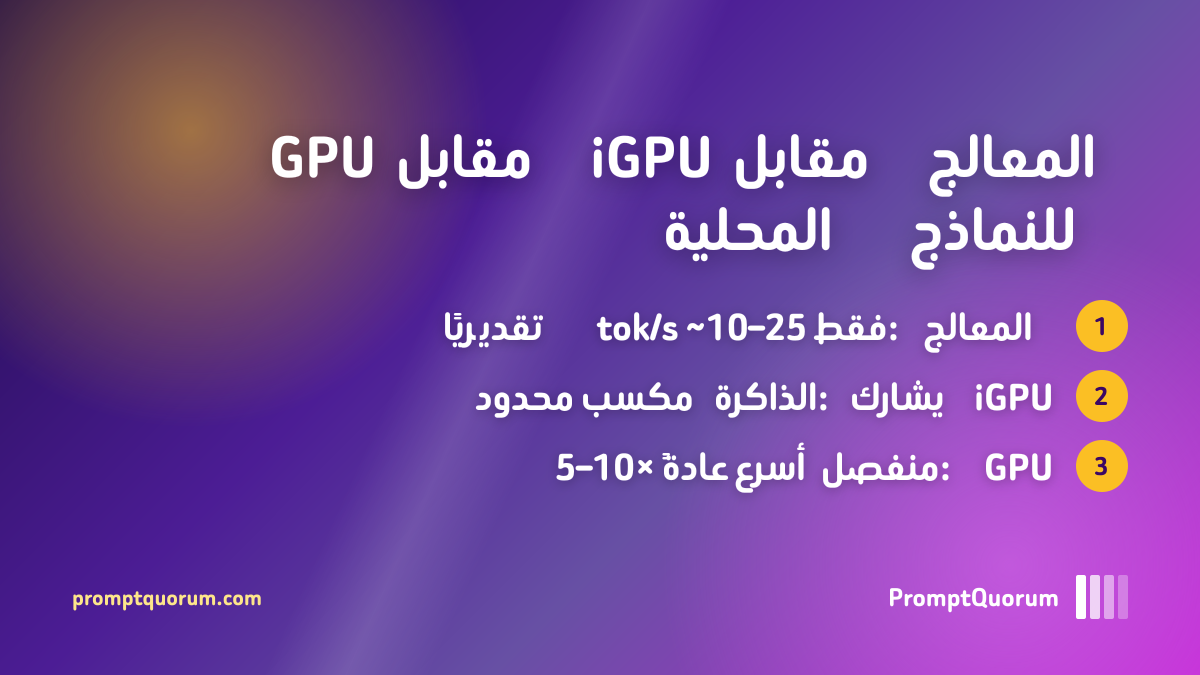
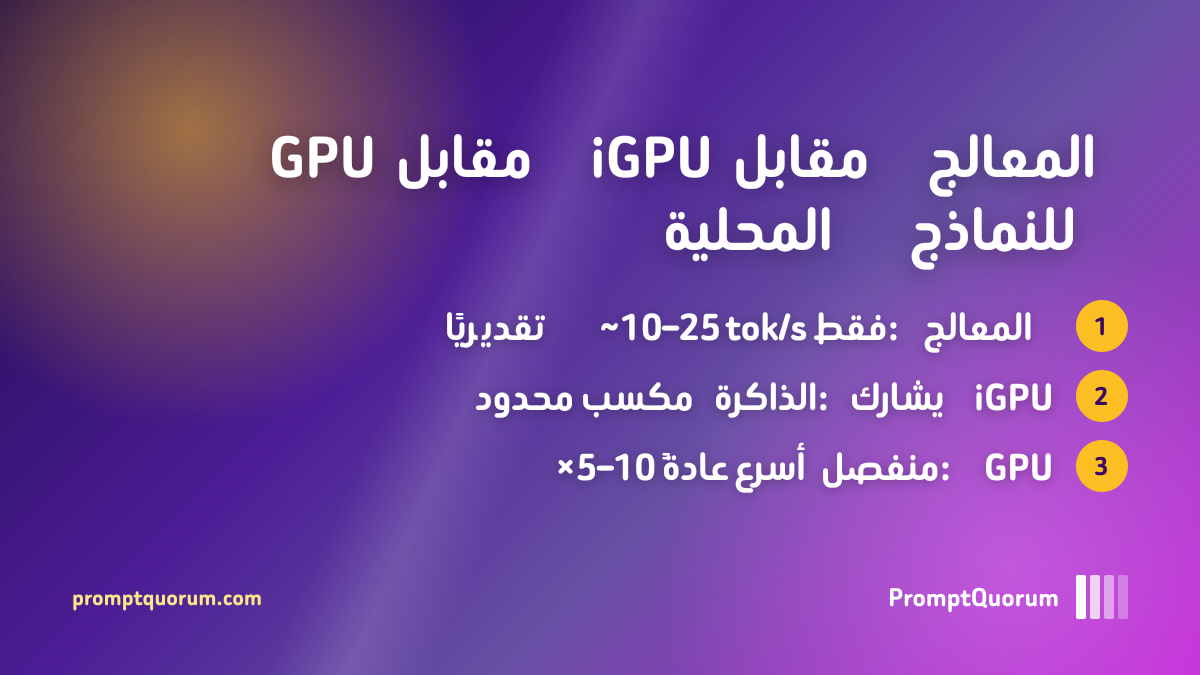
fix: keep Latin/number runs intact in Arabic hero posters

Changed region(s): [[0.4933, 0.4667, 0.6783, 0.5289], [0.4625, 0.6533, 0.555, 0.7156], [0.37, 0.4667, 0.4625, 0.5289]]

diff --git a/src/app/api/hero-image/route.tsx b/src/app/api/hero-image/route.tsx
@@ -1,6 +1,7 @@
 import { ImageResponse } from 'next/og'
 import fs from 'fs'
 import path from 'path'
+import { splitBidiRuns } from '@/lib/hero/bidi-runs'
 
 export const runtime = 'nodejs'
 
@@ -78,6 +79,14 @@ function LogoMark({ color, barWidth = 10, barHeight = 44 }: { color: string; bar
   )
 }
 
+// RTL text: one flex item per Arabic word, one intact LTR item per Latin/number
+// run (see src/lib/hero/bidi-runs.ts). The parent is a row-reverse flex.
+function renderRtlRuns(text: string) {
+  return splitBidiRuns(text).map((r, i) => (
+    <div key={i} style={{ display: 'flex', direction: r.dir, whiteSpace: 'nowrap' }}>{r.text}</div>
+  ))
+}
+
 // Internal content-tooling route: renders Discover-compliant (1200x675 raster,
 // 16:9) poster-style hero images for article body/schema use, sharing the same
 // Satori+resvg pipeline as /api/og/[slug] so CJK and Arabic shaping render
@@ -137,7 +146,7 @@ export async function POST(request: Request) {
             }}
           >
             {/* RTL: Satori picks the paragraph direction from the first strong char, so a title starting with a Latin brand name (e.g. "DeepSeek V4 مقابل …") renders with reversed word order. Word-per-flex-item + row-reverse (same trick as the highlight lines) keeps logical order; join Latin multi-word names with NBSP in the caller. */}
-            {isRtl ? title.split(' ').map((w, wi) => <div key={wi} style={{ display: 'flex' }}>{w}</div>) : title}
+            {isRtl ? renderRtlRuns(title) : title}
           </div>
 
           {showFormula && (
@@ -169,7 +178,7 @@ export async function POST(request: Request) {
                   </div>
                   <div style={{ display: 'flex', flexDirection: rowDir, flexWrap: 'wrap', columnGap: isRtl ? '6px' : '0px', fontSize: '44px', fontWeight: 700, lineHeight: 1.15, textAlign, textShadow: '0 2px 12px rgba(0,0,0,0.3)' }}>
                     {/* Satori's bidi reorders multi-word Arabic text nodes inconsistently, so for RTL each word is its own flex item and row-reverse fixes the word order; shaping stays intact within a word. */}
-                    {isRtl ? line.split(' ').map((w, wi) => <div key={wi} style={{ display: 'flex' }}>{w}</div>) : line}
+                    {isRtl ? renderRtlRuns(line) : line}
                   </div>
                 </div>
               ))}

diff --git a/src/lib/hero/bidi-runs.ts b/src/lib/hero/bidi-runs.ts
@@ -1,0 +1,52 @@
+// Splits an RTL (Arabic) poster line into runs so Satori, which has only
+// limited bidi support, can lay each run out on its own: RTL runs are one
+// flex item per word, LTR runs (Latin words / numbers / ranges such as
+// "Qwen3 1.7B", "4 GB", "~25–40 tok/s") are one intact left-to-right item.
+// The caller renders the runs in a flex row-reverse in logical order.
+
+export type BidiRun = { text: string; dir: 'rtl' | 'ltr' }
+
+const ARABIC = /[-ۿݐ-ݿࢠ-ࣿﭐ-﷿ﹰ-]/
+const LTR_CHAR = /[A-Za-z0-9]/
+// Sentence punctuation at the logical end of a Latin word belongs to the RTL
+// flow (it sits visually left of the word), so it is peeled off the LTR run.
+const TRAILING_PUNCT = /[:;,.!?،؛؟]+$/
+
+type Kind = 'rtl' | 'ltr' | 'neutral'
+
+function kindOf(word: string): Kind {
+  if (ARABIC.test(word)) return 'rtl'
+  if (LTR_CHAR.test(word)) return 'ltr'
+  return 'neutral'
+}
+
+export function splitBidiRuns(line: string): BidiRun[] {
+  const words = line.split(/\s+/).filter(Boolean)
+  const kinds = words.map(kindOf)
+  const runs: BidiRun[] = []
+  let ltr: string[] = []
+  const flush = () => {
+    if (ltr.length) runs.push({ text: ltr.join(' '), dir: 'ltr' })
+    ltr = []
+  }
+  words.forEach((word, i) => {
+    let kind = kinds[i]
+    // A bare symbol ("~", "–", "×") between/before Latin words stays inside the Latin run.
+    if (kind === 'neutral' && (ltr.length > 0 || kinds[i + 1] === 'ltr') && kinds[i + 1] === 'ltr') kind = 'ltr'
+    if (kind !== 'ltr') {
+      flush()
+      runs.push({ text: word, dir: 'rtl' })
+      return
+    }
+    const m = word.match(TRAILING_PUNCT)
+    if (m && m.index! > 0) {
+      ltr.push(word.slice(0, m.index))
+      flush()
+      runs.push({ text: m[0], dir: 'rtl' })
+    } else {
+      ltr.push(word)
+    }
+  })
+  flush()
+  return runs
+}
